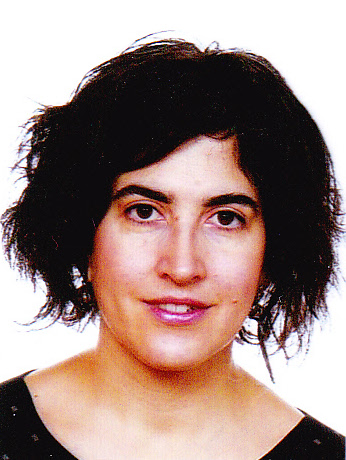
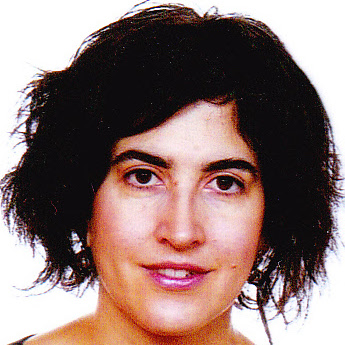
Publications, team img & border fix. Deploy

diff --git a/index.html b/index.html
@@ -87,12 +87,18 @@
                      
                 </section> -->
 
+             <section class="pt3 pb3 align--center">
+              <h3 class="mb2">Publications</h3>
+              <p>Macenski, S., Singh, S., Martín, F. <i>et al.</i> Regulated pure pursuit for robot path tracking. <i>Auton Robot</i> (2023). <a href="https://doi.org/10.1007/s10514-023-10097-6">https://doi.org/10.1007/s10514-023-10097-6</a></p>
+              <!-- <img class="m1" src="img/newrelic.svg" alt="New Relic" style="height:35px"> -->
+            </section>
+
             <!-- Presenters -->
             <section class="pt3 pb3 align--center">
               <h3 class="mb1">The team</h3>
               <div class="grid-row">
                 <div class="grid-column span-2 mt2">
-                  <img class="mb1" src="img/team/lidia.jpg" alt="Lidia Sánchez" />
+                  <img class="mb1 team-img" src="img/team/lidia.jpg" alt="Lidia Sánchez" />
                   <p class="small">Lidia Sánchez</p>
                 </div>
                 <div class="grid-column span-2 mt2">
@@ -100,7 +106,7 @@
                   <p class="small">Francisco J. Rodríguez</p>
                 </div>
                 <div class="grid-column span-2 mt2">
-                  <img class="mb1" src="" alt="Camino Fernández" />
+                  <img class="mb1 team-img" src="img/team/camino.jpg" alt="Camino Fernández" />
                   <p class="small">Camino Fernández</p>
                 </div>
                 <div class="grid-column span-2 mt2">
@@ -148,12 +154,12 @@
                   <p class="small">Claudia Álvarez</p>
                 </div>
                 <div class="grid-column span-2 mt2">
-                  <img class="mb1" src="" alt="Virginia Riego" />
+                  <img class="mb1  team-img" src="img/team/virginia.JPG" alt="Virginia Riego" />
                   <p class="small">Virginia Riego</p>
                 </div>
                 <div class="grid-column span-2 mt2">
                   <img
-                    class="mb1"
+                    class="mb1 team-img"
                     src="img/team/alexis.jpg"
                     alt="Alexis Gutiérrez"
                   />
@@ -245,8 +251,8 @@
                     <a href="" class="btn btn--outline reveal-on-scroll is-revealing">Download Schedule</a>
                     <a href="https://www.eventbrite.com/" class="btn btn--default reveal-on-scroll is-revealing">Get a ticket →</a>
                     <p class="small mt1 text--gray">Tickets available on Eventbrite.</p>
-                </section> -->
-          </div>
+                </section>
+          </div> -->
         </main>
 
         <!-- Footer -->

diff --git a/css/style.css b/css/style.css
@@ -11,3 +11,6 @@
     height: 100%;
   }
   
+  .team-img {
+    width: 60%;
+  }
